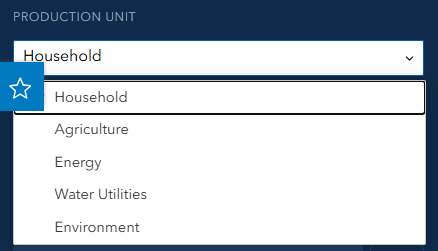
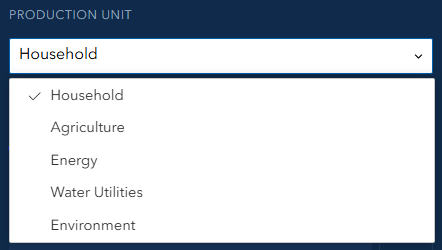
Updates
Site-tour and update images

diff --git a/docs/te-atlas/future-scenario.md b/docs/te-atlas/future-scenario.md
@@ -7,8 +7,6 @@ title: Future Scenario
 
 The **Future Scenario** view shows projected TE scores under two IPCC climate pathways, for two future time slices. Use this when you're planning for resilience or adaptation — *"where will the most vulnerable mukims be by 2050?"*
 
-> 📷 **Screenshot to capture:** `static/img/future-overview.png` — the full app in Future Scenario mode with Household + SSP2-4.5 + Mid Century selected.
->
 > ![](/img/future-overview.png)
 
 When you click **Future Scenario** at the top of the left panel, the whole app re-skins:
@@ -21,8 +19,6 @@ When you click **Future Scenario** at the top of the left panel, the whole app r
 
 Same five units as Current. Pick whichever sector you're studying.
 
-> 📷 **Screenshot to capture:** `static/img/future-controls.png` — the left panel showing Production Unit, SSP cards, and Period buttons stacked vertically.
->
 > ![](/img/future-controls.png)
 
 ## Step 2 — Pick the Climate Scenario (SSP)
@@ -34,8 +30,6 @@ Two scenarios from IPCC AR6:
 | **SSP2-4.5** | Moderate emissions — *"middle of the road"* development pathway |
 | **SSP5-8.5** | High emissions — *"fossil-fueled development"* worst-case |
 
-> 📷 **Screenshot to capture:** `static/img/future-ssp-cards.png` — the two SSP cards side by side, one selected.
->
 > ![](/img/future-ssp-cards.png)
 
 Click the card to switch scenarios. Everything below — map, ranking, climate context, detail panel — updates to that scenario.
@@ -50,8 +44,6 @@ Three time windows, but only two are *selectable*. The third is always shown as 
 | **Mid Century** | 2047–2073 | Yes — labeled *"by 2050"* in the ranking |
 | **Late Century** | 2074–2100 | Yes — labeled *"by 2100"* in the ranking |
 
-> 📷 **Screenshot to capture:** `static/img/future-period-buttons.png` — the Mid/Late Century buttons with the "Early Century · baseline" note above.
->
 > ![](/img/future-period-buttons.png)
 
 The Δ (delta) you'll see throughout the UI is always *target period − Early Century*. So if Late Century TE is **0.94** and Early Century was **0.84**, Δ = **+0.10**.
@@ -60,8 +52,6 @@ The Δ (delta) you'll see throughout the UI is always *target period − Early C
 
 Right under the Period buttons, the **Climate Context** card shows what the future is going to *feel* like under the chosen SSP and period:
 
-> 📷 **Screenshot to capture:** `static/img/future-climate-context.png` — the climate context card showing Max Temperature and Max Precipitation values with deltas.
->
 > ![](/img/future-climate-context.png)
 
 | Value | What it means |
@@ -75,8 +65,6 @@ The colored delta (e.g. `+1.17 °C`, `−1.31 mm`) tells you the magnitude of th
 
 Below Climate Context, the **TE Ranking · Mid vs Early** (or *Late vs Early*) section sorts mukims by how much their TE shifts from the Early baseline to the target period.
 
-> 📷 **Screenshot to capture:** `static/img/future-ranking.png` — the ranking with stacked Current/Target bars and Δ values colored red or green.
->
 > ![](/img/future-ranking.png)
 
 Each row shows:
@@ -102,8 +90,6 @@ Click any row to open the detail panel for that mukim.
 
 Click a mukim on the map (or in the ranking). The right panel switches to the **Forecast TE** view:
 
-> 📷 **Screenshot to capture:** `static/img/future-detail-panel.png` — detail panel for a selected mukim showing the 5 production unit cards with Current/2050/2100 bars.
->
 > ![](/img/future-detail-panel.png)
 
 For each of the five Production Units, you'll see:
@@ -118,8 +104,6 @@ If a unit is missing data for this mukim (e.g. Water Utilities is missing data f
 
 You may notice a small map in the bottom-left corner of the map area. **That's the switch-map tool.** Because the app uses two separate map layers (one for Current data, one for Forecast data), the system flips between them when you toggle scenarios. The small map shows the *other* layer — clicking it would manually swap, but you shouldn't need to: the scenario toggle does that automatically.
 
-> 📷 **Screenshot to capture:** `static/img/future-switch-map.png` — the small map in the corner, with an arrow pointing at it.
->
 > ![](/img/future-switch-map.png)
 
 ## Tips for planners

diff --git a/docs/te-atlas/current-scenario.md b/docs/te-atlas/current-scenario.md
@@ -7,8 +7,6 @@ title: Current Scenario
 
 The **Current Scenario** view shows TE scores derived from observed data, for the years your team has collected. Use this to see today's vulnerability and how it has trended in recent years.
 
-> 📷 **Screenshot to capture:** `static/img/current-overview.png` — the full app in Current Scenario mode with Household selected.
->
 > ![](/img/current-overview.png)
 
 ## Step 1 — Pick the Production Unit
@@ -23,8 +21,6 @@ A *Production Unit* is one of the five sectors TE Atlas tracks. Each sector has 
 | **Water Utilities** | Water-treatment plant capacity exposure |
 | **Environment** | Ecosystem and protected-area loss efficiency |
 
-> 📷 **Screenshot to capture:** `static/img/current-production-unit-dropdown.png` — the Production Unit dropdown open showing all five options.
->
 > ![](/img/current-production-unit-dropdown.png)
 
 Pick one. The map polygons re-color, the ranking on the left updates, and the bottom bar refreshes.
@@ -33,8 +29,6 @@ Pick one. The map polygons re-color, the ranking on the left updates, and the bo
 
 Under the Production Unit dropdown there's a **Year** section. It has a slider and a row of year ticks (the years available depend on the unit — some units have more historical data than others).
 
-> 📷 **Screenshot to capture:** `static/img/current-year-slider.png` — the year slider with tick marks, current year highlighted.
->
 > ![](/img/current-year-slider.png)
 
 You can also press the **▶ Play** button to animate through the years and watch the map evolve.
@@ -43,8 +37,6 @@ You can also press the **▶ Play** button to animate through the years and watc
 
 Underneath the year controls, the **TE Ranking** tab lists every mukim sorted by TE score. The most vulnerable is at the top, least at the bottom (by default).
 
-> 📷 **Screenshot to capture:** `static/img/current-ranking-tab.png` — the TE Ranking tab showing 22 mukims sorted by TE.
->
 > ![](/img/current-ranking-tab.png)
 
 Each row shows:
@@ -61,8 +53,6 @@ You can change the sort by clicking the **Mukim** or **TE Score** column headers
 
 Right next to TE Ranking is the **Exposure** tab. This shows the same mukims but ranked by the underlying *exposure* — the actual count of households, substations, hectares of cropland, etc. — rather than the derived TE score.
 
-> 📷 **Screenshot to capture:** `static/img/current-exposure-tab.png` — the Exposure tab with stacked-color bars (one segment per exposure type).
->
 > ![](/img/current-exposure-tab.png)
 
 Each row's bar is **stacked by exposure type** — e.g. an Agriculture row breaks down into different crop types, each as a colored segment of the bar. Hover for a tooltip with the exact value.
@@ -71,8 +61,6 @@ Each row's bar is **stacked by exposure type** — e.g. an Agriculture row break
 
 Click any mukim on the map (or in the ranking) and the right-side panel shows that mukim's full breakdown.
 
-> 📷 **Screenshot to capture:** `static/img/current-detail-panel.png` — detail panel for a selected mukim, showing the radar chart and per-unit bars.
->
 > ![](/img/current-detail-panel.png)
 
 The detail panel includes:

diff --git a/docs/te-atlas/reading-the-map.md b/docs/te-atlas/reading-the-map.md
@@ -11,8 +11,6 @@ The map is the centerpiece. Every colored polygon is one mukim, and the color te
 
 The legend lives in the bottom-left of the screen, in the **TE Score** strip.
 
-> 📷 **Screenshot to capture:** `static/img/legend-strip.png` — close-up of the bottom-left legend bar with the 0.00–1.00 scale.
->
 > ![](/img/legend-strip.png)
 
 - **Lower TE score** → less vulnerable
@@ -30,8 +28,6 @@ The colors are split into **five classes** — Very Low, Low, Moderate, High, Ve
 | **Click again** on a different mukim | Detail panel swaps to the new selection |
 | **Click outside any mukim** | Detail panel closes |
 
-> 📷 **Screenshot to capture:** `static/img/map-click-detail.png` — a mukim selected (highlighted outline) with the detail panel open on the right.
->
 > ![](/img/map-click-detail.png)
 
 ## Zoom and pan
@@ -49,8 +45,6 @@ You can also **scroll-wheel** to zoom and **click-drag** to pan.
 
 Below the map you'll see a summary strip:
 
-> 📷 **Screenshot to capture:** `static/img/bottom-metrics-bar.png` — the full bottom bar with all four cells visible (legend, basin average, most/least vulnerable, active view).
->
 > ![](/img/bottom-metrics-bar.png)
 
 | Cell | What it means |

diff --git a/docs/site-tour/top-navigation.md b/docs/site-tour/top-navigation.md
@@ -7,8 +7,6 @@ title: Top Navigation
 
 The top-right nav appears on every page of WEFE Nexus. Seven items, each linking to a section of the site.
 
-> 📷 **Screenshot to capture:** `static/img/site/top-nav.png` — close-up of the navigation strip showing all seven items.
->
 > ![](/img/site/top-nav.png)
 
 ## What each item is for
@@ -29,4 +27,4 @@ The top-right nav appears on every page of WEFE Nexus. Seven items, each linking
 - The currently active section is usually highlighted (check the live app to confirm).
 - All sections are independent — you don't need to read them in order.
 
-> 📷 **Screenshot to capture:** `static/img/site/top-nav-active.png` — close-up of the nav with one item highlighted/active, so users can see how the active state looks.
+> ![](/img/site/top-nav-active.png)

diff --git a/docs/te-atlas/getting-started.md b/docs/te-atlas/getting-started.md
@@ -45,8 +45,6 @@ At the very top of the left panel you'll see two buttons:
 
 The whole app re-skins itself depending on which one you pick. Most of the rest of this manual walks through each scenario separately.
 
-> 📷 **Screenshot to capture:** `static/img/scenario-toggle.png` — close-up of the Current/Future buttons.
->
 > ![](/img/scenario-toggle.png)
 
 ## What's a "mukim"?